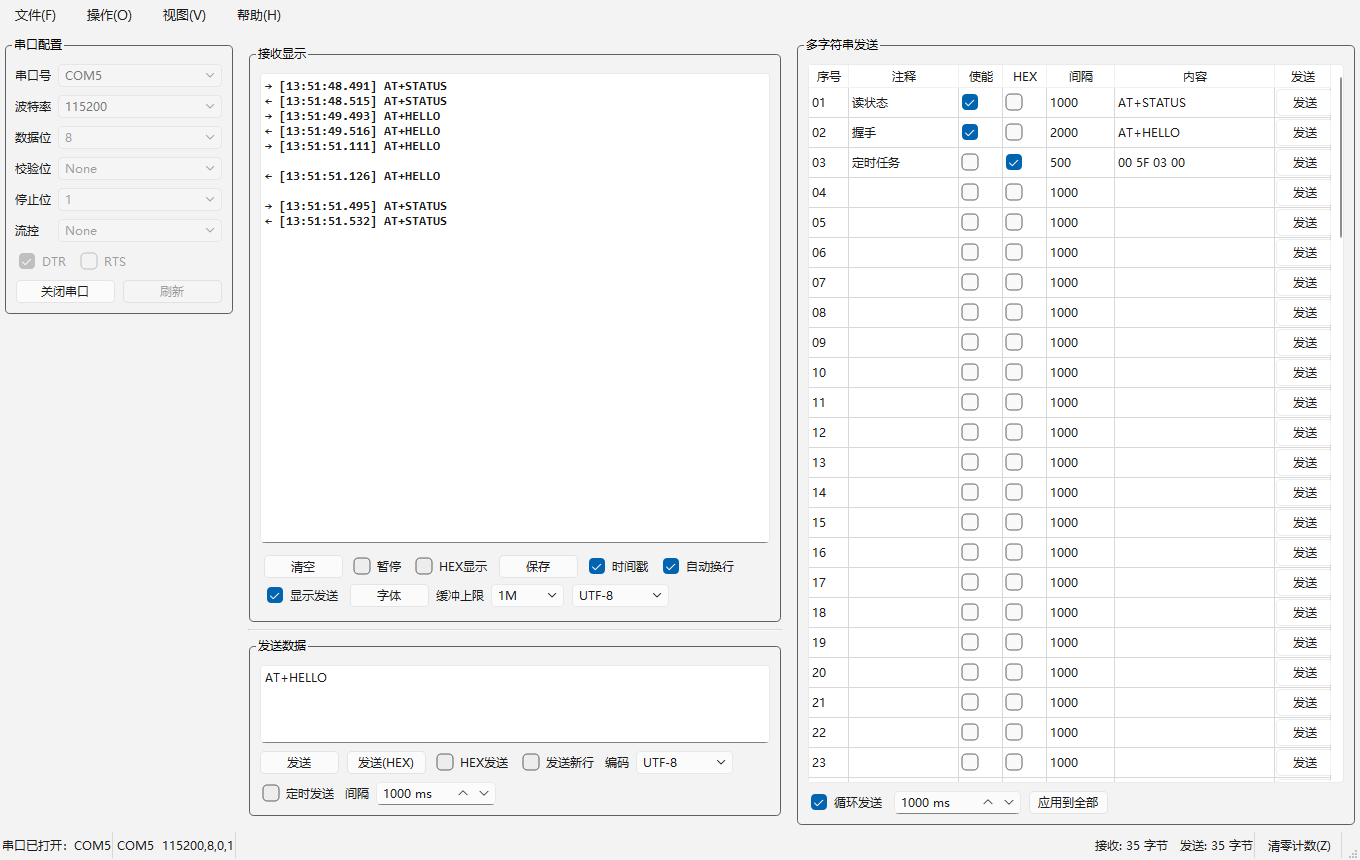
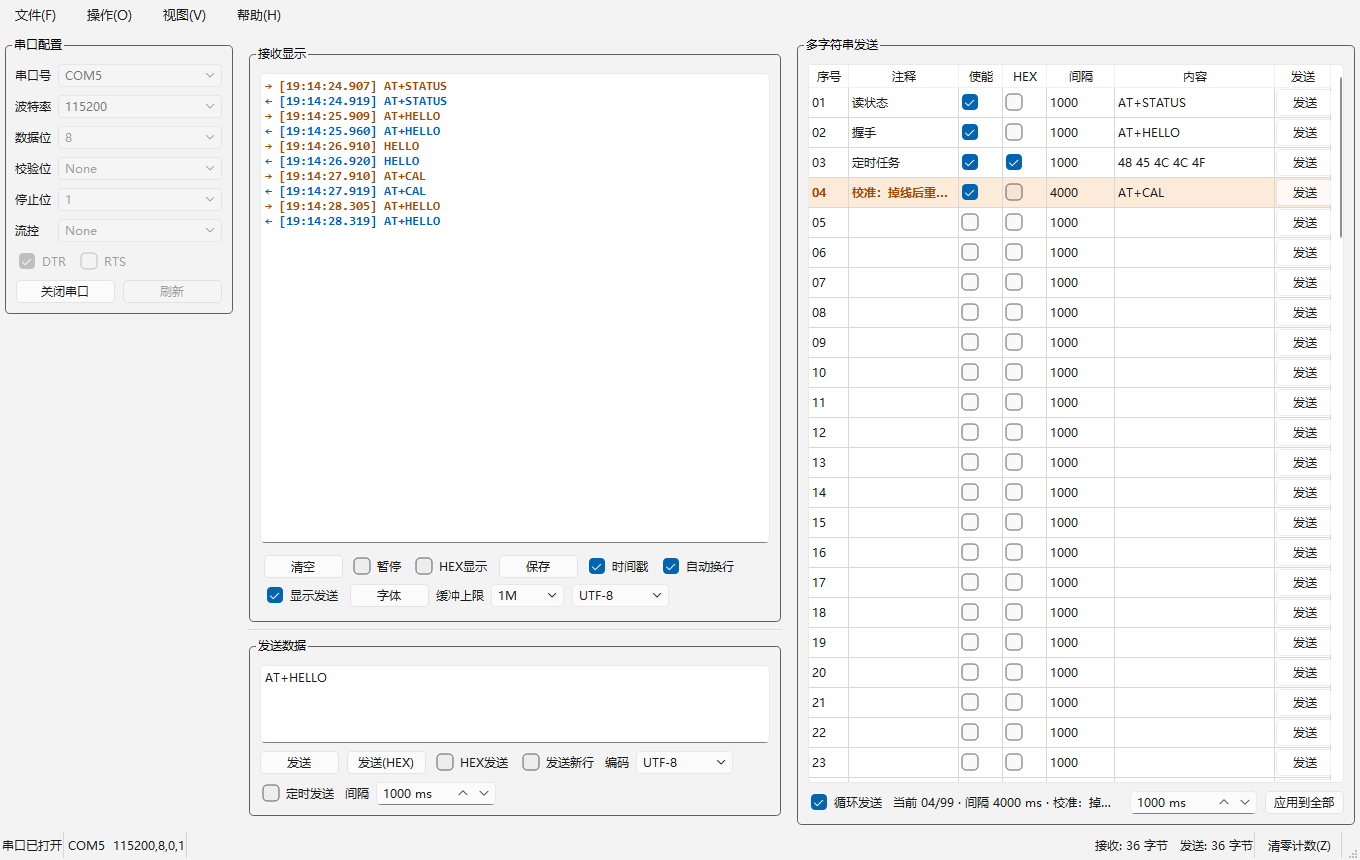
fix: 状态行的「间隔 N ms」从来没显示过，状态栏端口名重复两次
上传前重拍 README 截图时发现的两个问题，都不是截图的问题。

一、状态行截断（33716c3 带进来的）

现象：多字符串表底部那行「当前 07/99 · 注释 · 间隔 5000 ms」，
只要注释稍长，末尾的「间隔 N ms」就被整个切掉，而且切得无声无息。

根因是右侧面板被 MainWindow.cpp:189 的 setStretchFactor(2, 0) 钉死 ——
只有中间的主工作区跟着窗口伸缩，右边恒定 560px（窗口放到 1920 也一样）。
实测（build/probe_statuslabel，真实 windows 平台）：状态 label 只分到 222px，
而"当前 02/99 · 校准：… · 间隔 4000 ms" 要 340px。
原实现只对注释名做固定 260px 省略，省略完剩下的串照样超宽，
QLabel 于是直接硬切，不留省略号 —— 用户看到半句话，会以为间隔没显示。

为什么当初会漏掉：当时只按"注释列本身只有 110px"估过宽度，
没意识到右栏根本不会变宽；而且截图是在只看表格主体的构图里拍的，
底栏那行字小到没人会去逐字读。

改法（三层，缺一层都不成立）：
1. 顺序：恒定的短信息在前、会变长的在后 —— 现在是
   「当前 NN/99 · 间隔 N ms · 注释」。前缀 149px，222px 里还剩 73px 给注释。
2. 省略只作用在注释上，按「label 实际宽度 - 前缀宽 - 分隔符」倒推预算，
   而不是对整串做。先试过整串 elidedText，不行：label 尚未布局时
   width() 只有几十像素，整串会被吃成「当前 07/9…」，序号和间隔全没了，
   比原来更糟。按前缀倒推则天然免疫 —— 预算再怎么小，动的只有注释。
3. 伸缩从末尾的 addStretch(1) 挪到 label 自己（addWidget(label, 1)）。
   这是前一条能成立的前提：label 的宽度由它自己的文字决定，
   而文字又要按 label 的宽度来截，不把宽度钉死就是循环依赖，
   结果只取决于上一行文字有多长（实测首行为空文本时预算只剩一个省略号，
   注释整段消失）。挪完之后宽度恒等于「底栏减去固定控件」，与文字无关。

二、状态栏端口名重复

开着口时读作「串口已打开：COM5  COM5  115200,8,0,1」，COM5 出现两次 ——
MainWindow.cpp:394 写了一份，updateStatusParams()（:555）又写了一份。
关着口时是「串口已关闭  COM5  115200,8,0,1」，只有一次，两边不对称。
需求 §状态栏要的是「串口已打开 | COM1 | 9600,8,N,1」。去掉 .arg(name) 即可。
opened 信号带的端口名不再使用，lambda 参数去掉名字（-Wall -Wextra 会报未使用）。

这一处没有加单测：要触发「串口已打开」得真的开一个口，串口不是单测能依赖的
前提。它是一行字符串字面量，理由已写进代码注释。

三、README 截图重拍

images/screenshot.png 是 10/14 拍的，没有循环高亮行、没有状态行。
用 build/probe_shot 重拍（COM5 回环，4 条全勾、间隔 1000/1000/1000/4000，
保证抓图那一刻循环还在跑）。HEX 项内容改成 "HELLO" 的十六进制，
[…]

diff --git a/tests/tst_multisendtable.cpp b/tests/tst_multisendtable.cpp
@@ -10,6 +10,7 @@
 #include "core/SendQueueManager.h"
 
 #include <QApplication>
+#include <QFontMetrics>
 #include <QLabel>
 #include <QLineEdit>
 #include <QPushButton>
@@ -80,6 +81,18 @@ private slots:
     void setCurrentRow_scrolls_a_row_that_is_out_of_sight();
     void setCurrentRow_does_not_scroll_while_a_cell_is_being_edited();
     void status_text_names_the_row_and_its_interval();
+    // 回归钉：状态行只能有 222px（面板被 setStretchFactor(2,0) 钉死，实测），
+    // 而完整一行要 340px。恒定的短信息必须排在会变长的注释前面。
+    void status_text_puts_the_interval_before_the_comment();
+    // 回归钉：被省略掉的那截必须留下省略号，且序号与间隔不能被吃掉。
+    void status_text_is_elided_instead_of_being_silently_cut();
+    // 回归钉：注释是"按 label 实际宽度"倒推预算截出来的，而 label 的宽度
+    // 又由它自己的文字决定 —— 不把宽度钉死就是循环依赖。底部 addStretch(1)
+    // 已改成加在 label 上；这一条**故意没有**单测：offscreen 没有字体引擎，
+    // CJK 的 advance 完全失真（实测同一个 label 宽度会从 239 跳到 600 并溢出
+    // 560 的控件），写出来的断言在 offscreen 下量不到真实行为。
+    // 改完请用 build/probe_statuslabel 在真实 windows 平台复测：
+    // 期望 label 恒为 222px，短注释完整、长注释带「…」且 clipped=no。
     void status_text_is_cleared_together_with_the_highlight();
     void single_send_highlights_that_row_then_fades();
     // 竞态：单发的余晖到期时，循环可能已经把指示挪到别的行了。
@@ -716,6 +729,14 @@ void TestMultiSendTable::status_text_names_the_row_and_its_interval()
     QLabel* status = m.findChild<QLabel*>();
     QVERIFY(status);
 
+    // 注释那段是按 label 的**实际**宽度倒推预算后才塞进去的（见 updateStatusText），
+    // 所以这里必须先把控件摆出来 —— 不 show 的话 label 只有几十像素宽，
+    // 注释会整段消失，断言的就不再是产品真实会显示的东西。
+    // 这跟 Windows style 那条一样：用例得自己造出前提。
+    m.resize(560, 400);
+    m.show();
+    QVERIFY(QTest::qWaitForWindowExposed(&m));
+
     t->item(6, 1)->setText(QStringLiteral("读状态"));
     const int ms = 5000;
     t->item(6, 4)->setData(Qt::UserRole, ms);
@@ -727,6 +748,82 @@ void TestMultiSendTable::status_text_names_the_row_and_its_interval()
     QVERIFY2(text.contains(QStringLiteral("07")), qPrintable(text));
     QVERIFY2(text.contains(QStringLiteral("读状态")), qPrintable(text));
     QVERIFY2(text.contains(QStringLiteral("5000")), qPrintable(text));
+}
+
+void TestMultiSendTable::status_text_puts_the_interval_before_the_comment()
+{
+    // 顺序是契约，不是排版口味。
+    //
+    // 实测（build/probe_statuslabel，真实 windows 平台）：右侧面板被
+    // MainWindow 的 setStretchFactor(2, 0) 钉在 560px —— 窗口放到 1920 也一样 ——
+    // 状态 label 恒定只分到 222px，而"当前 04/99 · 间隔 4000 ms"就占 149px。
+    // 原来的顺序是 序号 · 注释 · 间隔，注释一长就把末尾的「间隔 N ms」
+    // 整个切没了。恒定的短信息必须先占住位置。
+    MultiSendTable m;
+    QTableWidget* t = tableOf(m);
+    QLabel* status = m.findChild<QLabel*>();
+    QVERIFY(status);
+
+    const QString comment = QStringLiteral("校准：掉线后重连并重读全部状态参数");
+    t->item(6, 1)->setText(comment);
+    t->item(6, 4)->setData(Qt::UserRole, 4000);
+    t->item(6, 4)->setText(QStringLiteral("4000"));
+
+    m.setCurrentRow(6);
+
+    const QString text = status->text();
+    const int msAt = text.indexOf(QStringLiteral("4000"));
+    const int commentAt = text.indexOf(comment);
+    QVERIFY2(msAt >= 0, qPrintable(text));
+    if (commentAt >= 0)
+        QVERIFY2(msAt < commentAt, qPrintable(text));
+}
+
+void TestMultiSendTable::status_text_is_elided_instead_of_being_silently_cut()
+{
+    // 只对注释名做固定像素省略是不够的：那样被切掉的那截是**无声**的 ——
+    // 少的部分连省略号都没有，看着像本来就那么长，用户根本不知道
+    // 「间隔 N ms」被吃掉了。所以整串都必须按 label 的实际宽度省略。
+    MultiSendTable m;
+    QTableWidget* t = tableOf(m);
+    QLabel* status = m.findChild<QLabel*>();
+    QVERIFY(status);
+
+    const QString comment = QStringLiteral("校准：掉线后重连并重读全部状态参数");
+    t->item(6, 1)->setText(comment);
+    t->item(6, 4)->setData(Qt::UserRole, 4000);
+    t->item(6, 4)->setText(QStringLiteral("4000"));
+
+    // 宽度按**当前度量自校准**，不写死像素。
+    //
+    // 踩过的坑：offscreen 平台没有字体引擎（QFontDatabase::families() 实测
+    // 为空），CJK 的 advance 小得离谱，跟真实平台完全不是一个量级 ——
+    // 拿真实平台量出来的 222/340 去写断言，在 offscreen 下前提根本不成立，
+    // 钉子就变成了依赖环境的假断言。这里改成"head 放得下、head+注释放不下"，
+    // 那个宽度由当前字体的度量算出来，在哪跑都成立。
+    const QFontMetrics fm(status->font());
+    const QString head = QStringLiteral("当前 07/99 · 间隔 4000 ms");
+    const QString sep  = QStringLiteral(" · ");
+    const int headW = fm.horizontalAdvance(head);
+    const int sepW  = fm.horizontalAdvance(sep);
+    const int nameW = fm.horizontalAdvance(comment);
+    QVERIFY2(nameW > 0, "没有字体引擎的话这条用例没法判，省得报一个看不懂的错");
+    status->setFixedWidth(headW + sepW + nameW / 2);
+
+    m.resize(560, 400);
+    m.show();
+    QVERIFY(QTest::qWaitForWindowExposed(&m));
+    QCOMPARE(status->width(), headW + sepW + nameW / 2);
+
+    m.setCurrentRow(6);
+
+    const QString shown = status->text();
+    // 序号与间隔不能被吃掉 —— 这是这条用例真正想守的东西
+    QVERIFY2(shown.startsWith(head), qPrintable(shown));
+    // 且必须留下省略号，让"少了一截"这件事看得见，而不是无声无息地切掉
+    QVERIFY2(shown.endsWith(QChar(0x2026)), qPrintable(shown));
+    // 显示出来的必须放得下（原来失败的地方就是硬切，宽度超了）
+    QVERIFY2(fm.horizontalAdvance(shown) <= status->width(), qPrintable(shown));
 }
 
 void TestMultiSendTable::status_text_is_cleared_together_with_the_highlight()

diff --git a/src/ui/MultiSendTable.cpp b/src/ui/MultiSendTable.cpp
@@ -32,11 +32,6 @@ constexpr int kEditDebounceMs = 300;
 
 // 单发高亮停留多久。够看清一眼，又不至于和下一次操作撞在一起。
 constexpr int kFlashMs = 900;
-
-// 状态行里「注释」最多占多宽像素。注释列本身只有 110px，
-// 这里放宽一点让长注释也能读全，再长就省略号 —— 不然一条长注释
-// 会把「应用到全部」挤到下一行去。
-constexpr int kStatusNamePx = 260;
 }
 
 // ---- IntervalDelegate ----
@@ -250,7 +245,13 @@ MultiSendTable::MultiSendTable(QWidget* parent)
     m_statusLabel = new QLabel(this);
     m_statusLabel->setTextInteractionFlags(Qt::TextSelectableByMouse);
     m_statusLabel->setSizePolicy(QSizePolicy::Preferred, QSizePolicy::Preferred);
-    controls->addWidget(m_statusLabel);
+    // stretch 给这个 label，不给末尾那个 addStretch(1)。这不是排版口味：
+    // updateStatusText 是「按 label 的实际宽度倒推预算」来截注释的，
+    // 而 label 的宽度又由它自己的文字决定 —— 不把宽度钉死就是循环依赖，
+    // 结果只取决于上一行文字有多长（实测首行是空文本，label 还没撑开，
+    // 预算算下来只够一个省略号，注释整段没了）。
+    // 伸缩给 label 之后，宽度恒等于"底栏减去固定控件"，与文字无关。
+    controls->addWidget(m_statusLabel, 1);
     controls->addSpacing(8);
     // 全局间隔不再直接驱动发送节奏（那是每行自己的事了），
     // 退化成「一键把全部行设成同一个值」，免得 99 行要逐个敲。
@@ -261,7 +262,6 @@ MultiSendTable::MultiSendTable(QWidget* parent)
     connect(m_applyAllBtn, &QPushButton::clicked, this, &MultiSendTable::applyIntervalToAll);
     controls->addWidget(m_intervalSpin);
     controls->addWidget(m_applyAllBtn);
-    controls->addStretch(1);
 
     auto* layout = new QVBoxLayout(this);
     layout->addWidget(m_table, 1);
@@ -462,15 +462,45 @@ void MultiSendTable::updateStatusText(int row)
     const QString name = m_table->item(row, ColName)->text();
     const int ms = m_table->item(row, ColInterval)->data(Qt::UserRole).toInt();
 
-    QString text = tr("当前 %1/%2")
-                       .arg(row + 1, 2, 10, QLatin1Char('0'))
-                       .arg(kSendItemCount);
-    // 注释为空时只留序号和间隔，不要留下「··」这种空档
+    // 顺序是「恒定的短信息在前、会变长的在后」，不是随手排的。
+    //
+    // 实测（build/probe_statuslabel，真实 windows 平台，不是 offscreen）：
+    // 右侧面板被 MainWindow 刻意 setStretchFactor(2, 0) 钉死（窗口放到
+    // 1920 也还是 560px），状态 label 恒定只分到 222px。量下来
+    // "当前 04/99 · 间隔 4000 ms" 占 149px，" · 间隔 4000 ms" 占 88px。
+    //
+    // 原先把注释夹在中间，长注释一行要 340px，于是末尾的「间隔 N ms」
+    // 被整个切掉、连省略号都没有 —— 用户只看到半句话，还以为间隔没显示。
+    // 按现在这个顺序，序号与间隔先占住那 222px，注释多长都丢得掉注释、
+    // 丢不掉间隔。
+    const QString head = tr("当前 %1/%2 · 间隔 %3 ms")
+                             .arg(row + 1, 2, 10, QLatin1Char('0'))
+                             .arg(kSendItemCount)
+                             .arg(ms);
+    QString text = head;
+
+    // 注释为空时不要留下「··」这种空档。
+    //
+    // 省略只作用在注释上，不是对整串做 —— 整串省略会在 label 还没布局出来时
+    // （width() 只有几十像素）把「当前 07/99 · 间隔 5000 ms」一起吃掉，
+    // 实测那条路径直接输出「当前 07/9…」，序号和间隔都没了，比原来更糟。
+    // 按「前缀宽度」倒推预算则天然免疫：预算再怎么小，动的只有注释。
     if (!name.isEmpty()) {
-        text += QStringLiteral(" · ")
-              + m_statusLabel->fontMetrics().elidedText(name, Qt::ElideRight, kStatusNamePx);
+        const QFontMetrics fm = m_statusLabel->fontMetrics();
+        const QString sep = QStringLiteral(" · ");
+        // 宽度 0 是首次布局之前，这时无从判断，直接不省略
+        const int budget = m_statusLabel->width() > 0
+                               ? m_statusLabel->width()
+                                     - fm.horizontalAdvance(head)
+                                     - fm.horizontalAdvance(sep)
+                               : -1;
+        const QString shown = budget < 0 ? name
+                                         : fm.elidedText(name, Qt::ElideRight, budget);
+        // 预算不足到放不下一个分隔符时，注释整段不出现，而不是留下一个
+        // 悬空的「 · 」
+        if (!shown.isEmpty())
+            text += sep + shown;
     }
-    text += tr(" · 间隔 %1 ms").arg(ms);
     m_statusLabel->setText(text);
 }
 

diff --git a/src/ui/MainWindow.cpp b/src/ui/MainWindow.cpp
@@ -375,7 +375,9 @@ void MainWindow::startSerialThread()
     connect(m_thread, &QThread::finished, m_serial, &QObject::deleteLater);
 
     connect(m_serial, &SerialPortManager::opened, this,
-            [this](const QString& name) {
+            // 端口名由 opened 带来，但这里不再用它 —— 见下方 m_statusConn 那段。
+            // 参数留着名字会被 -Wall -Wextra 报未使用，签名仍要与信号对齐。
+            [this](const QString&) {
                 // 顺序不可换：setControlsEnabled(false) 会把打开按钮设为可用
                 //（它同时是"关闭串口"的入口），而 setOpenState 只改文字、不碰
                 // enabled。反了就让"关闭串口"永久灰掉。
@@ -391,7 +393,12 @@ void MainWindow::startSerialThread()
                 // 而快捷键走的是 trigger()，那条路不看可见性 —— 所以还得禁用。
                 if (m_openAction)
                     m_openAction->setEnabled(false);
-                m_statusConn->setText(tr("串口已打开：%1").arg(name));
+                // 这里只说开没开，端口名与参数由右边的 m_statusParam 统一给。
+                // 早期这里带了个 .arg(name)，与 m_statusParam 里的 portName 撞车，
+                // 开着口时读作「串口已打开：COM5  COM5  115200,8,0,1」——
+                // 需求 §状态栏要的是「串口已打开 | COM1 | 9600,8,N,1」，端口名只出现一次。
+                // 下面的「串口已关闭」分支本来就不带端口名，两边对称。
+                m_statusConn->setText(tr("串口已打开"));
                 m_portOpen = true;
                 // 串口没开时发送控件是禁用的，这里放开。
                 m_sendPanel->setSendEnabled(true);
